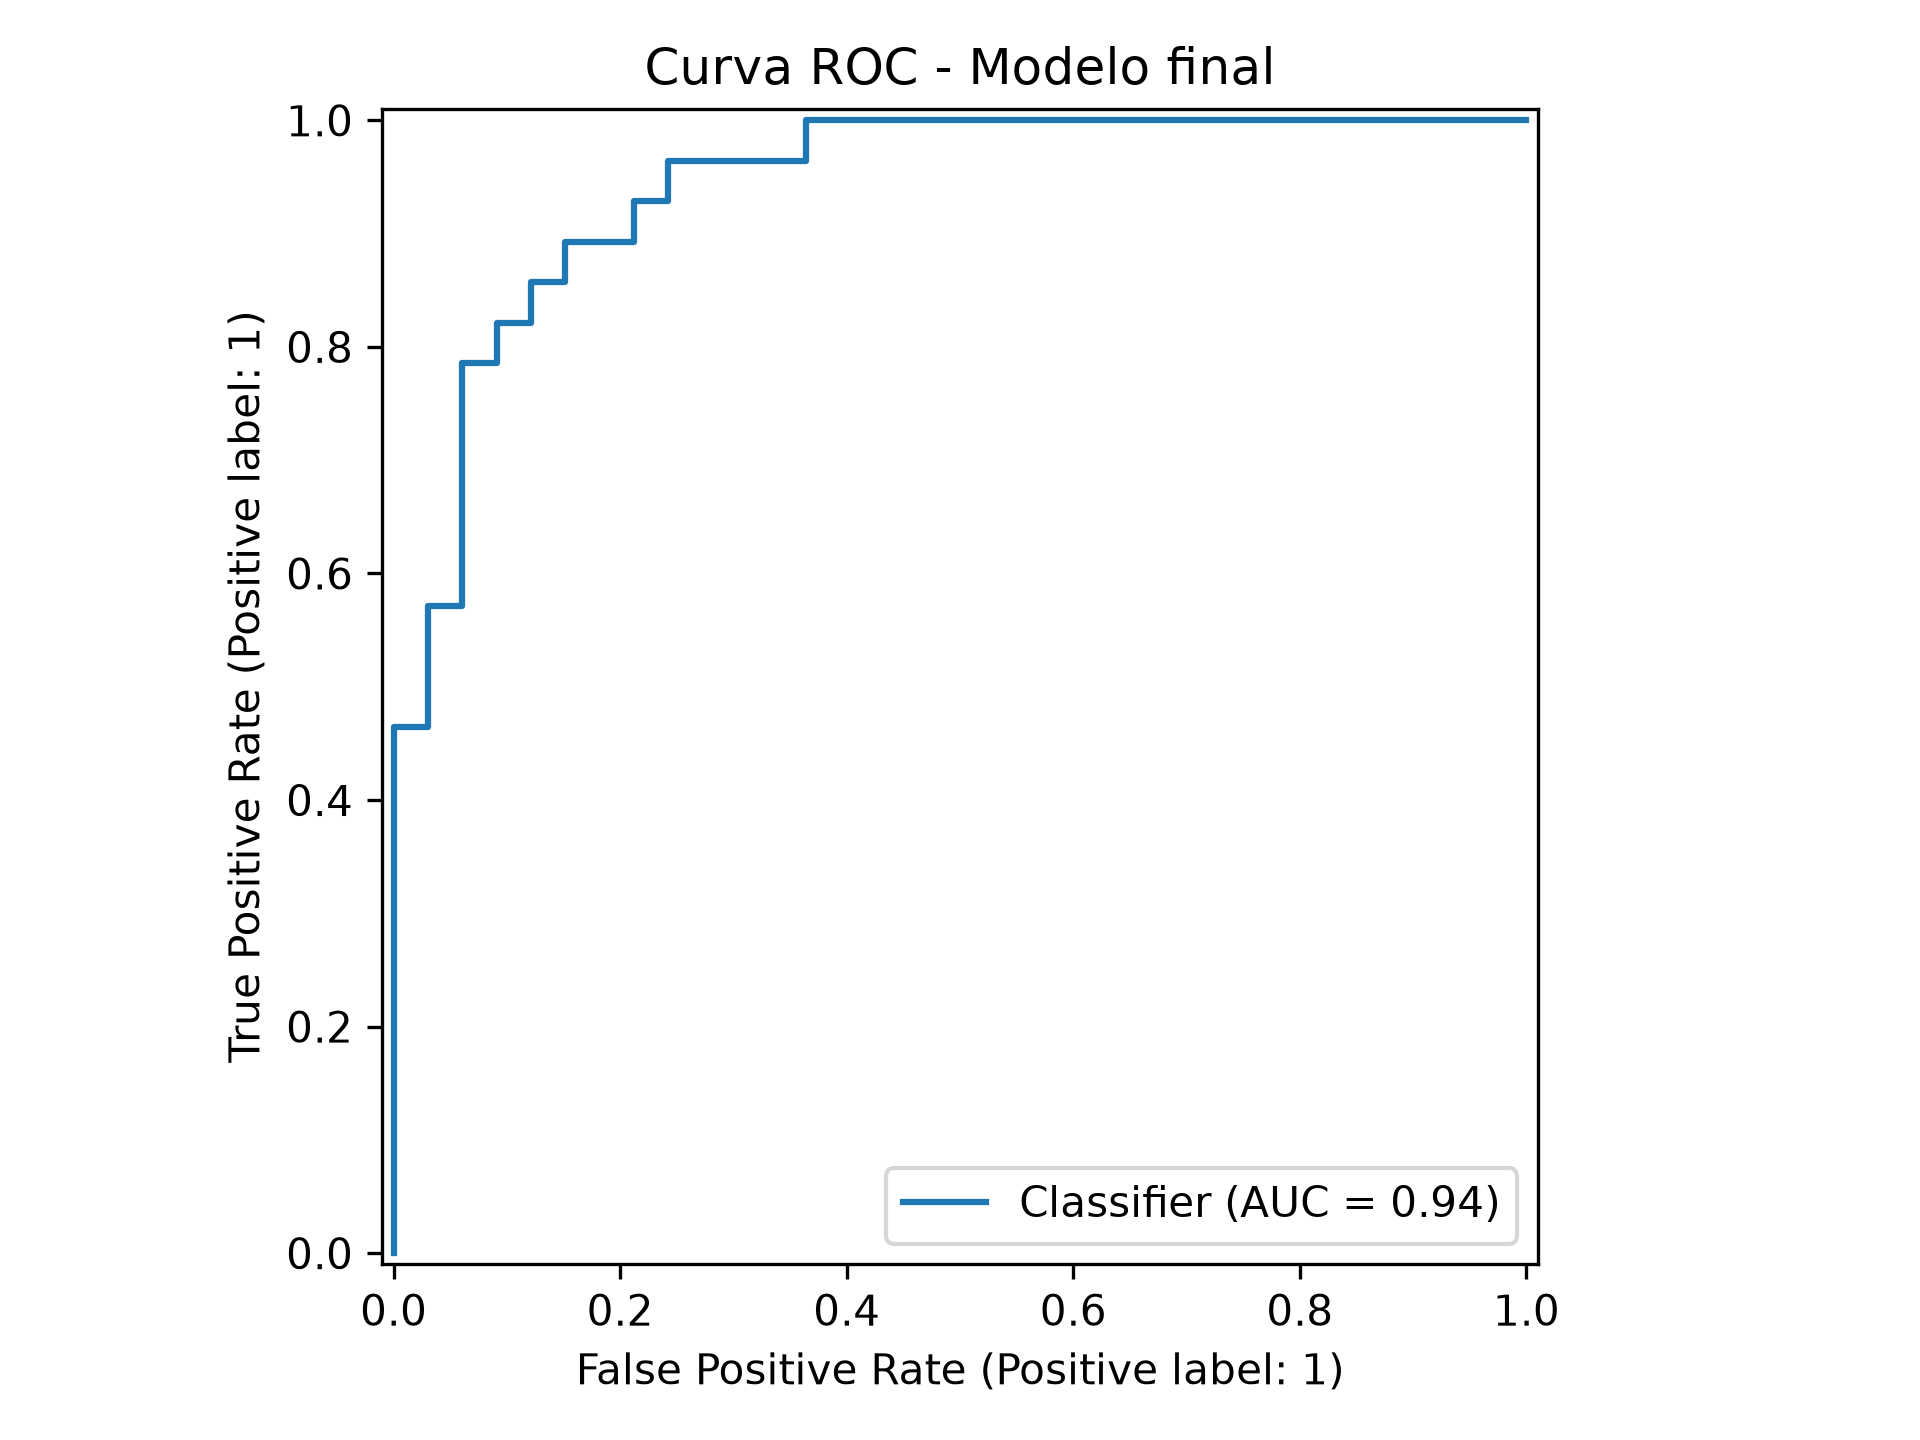
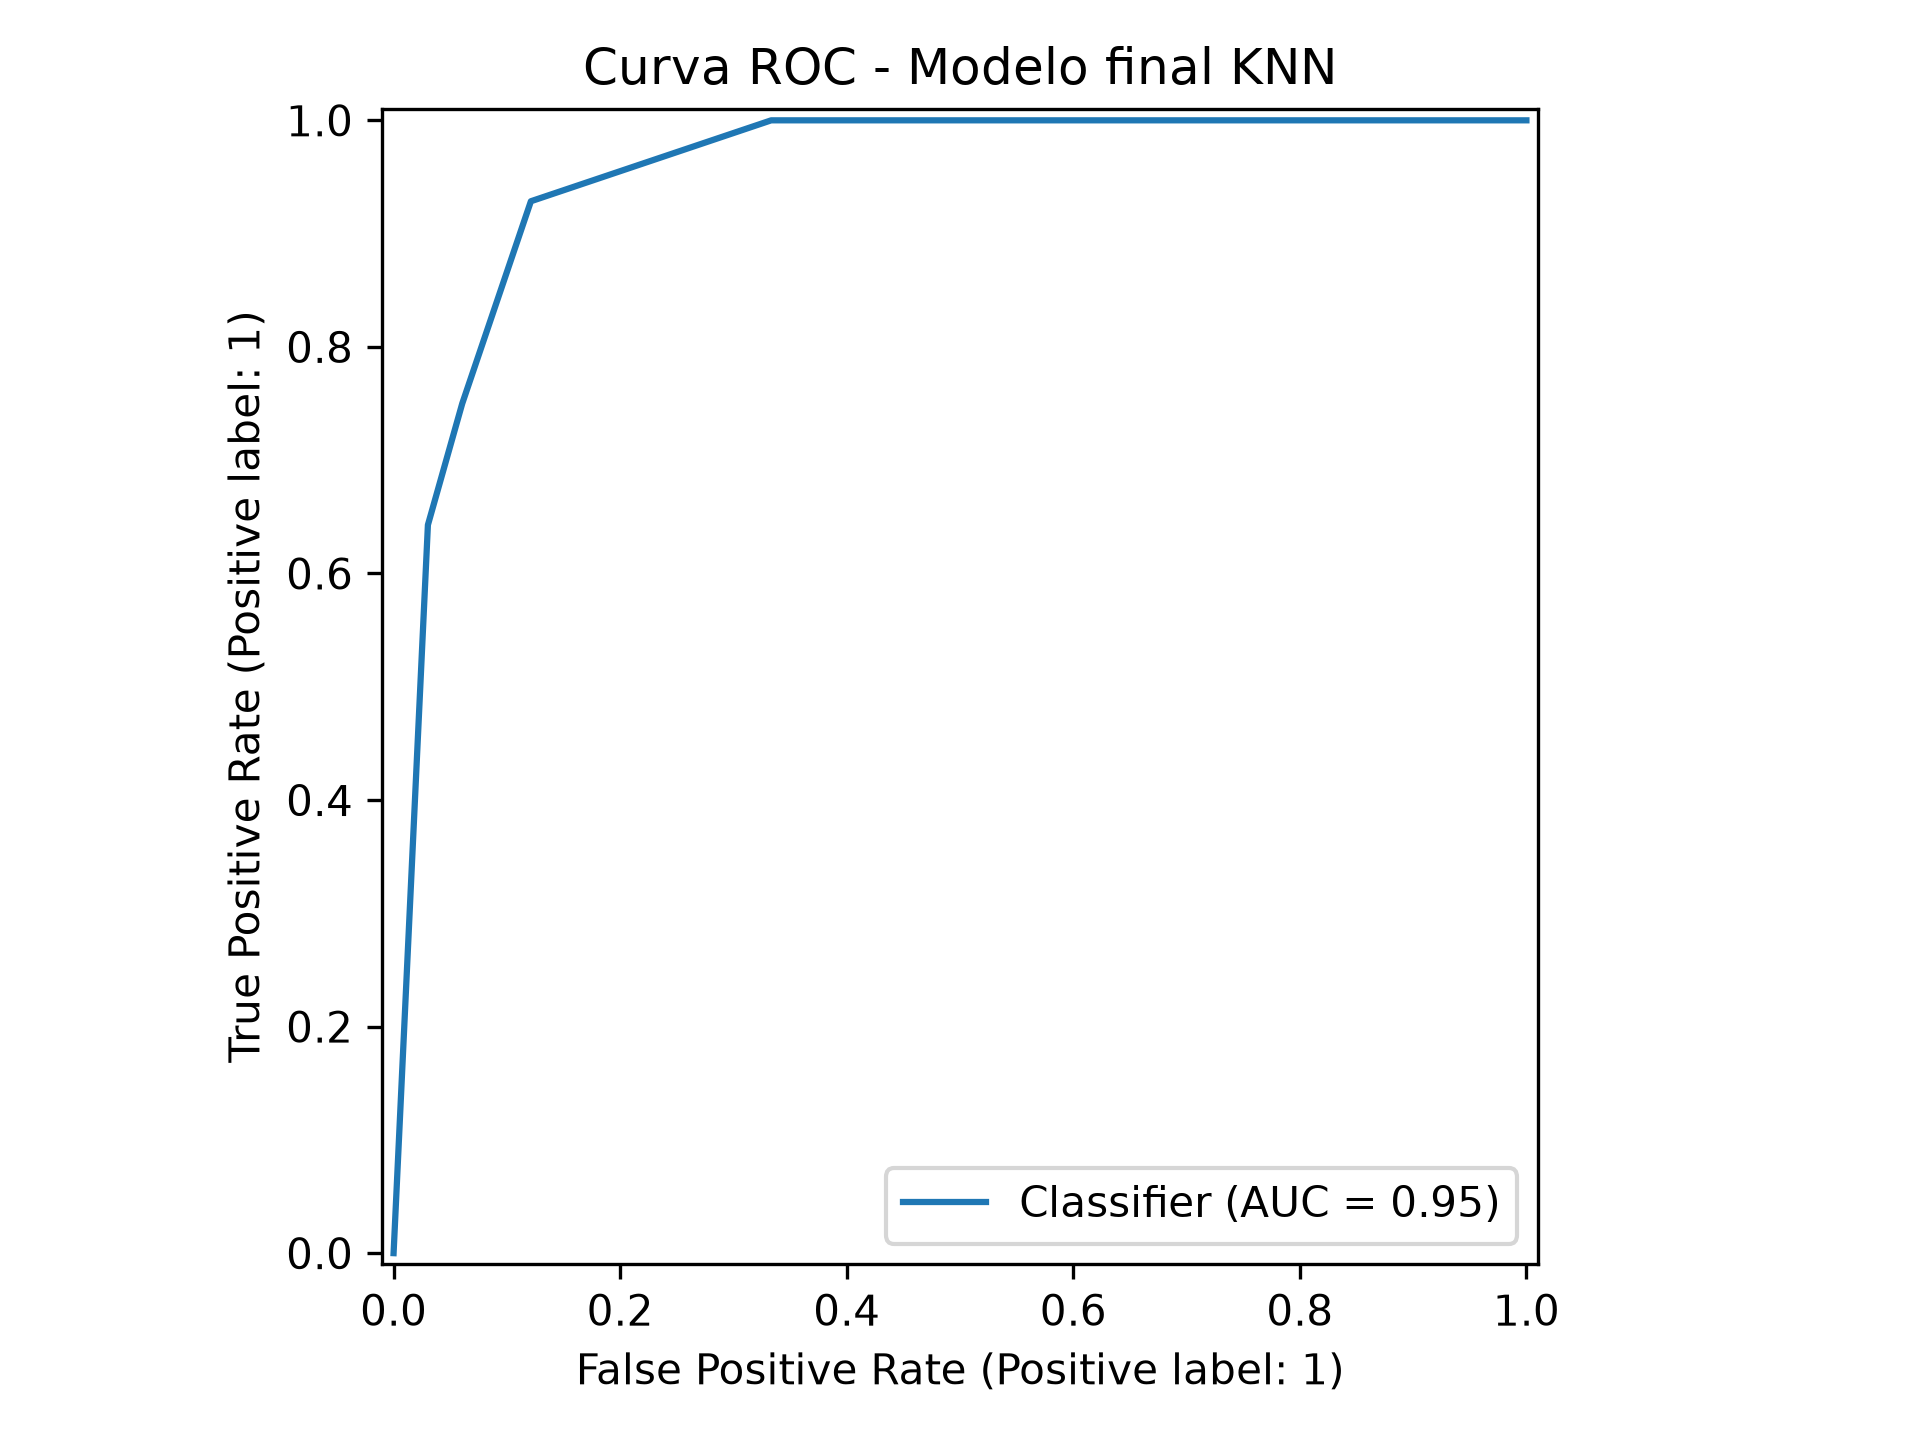
Set KNN as final predictive model and keep Random Forest for interpretability

diff --git a/src/train.py b/src/train.py
@@ -271,15 +271,26 @@ def main():
         n_jobs=-1
     )
 
+    # Entrenar búsqueda de hiperparámetros para Random Forest
     grid_rf.fit(X_train, y_train)
 
-    final_model = grid_rf.best_estimator_
+    # Guardamos Random Forest optimizado como modelo auxiliar de interpretabilidad,
+    # no como modelo final predictivo.
+    rf_interpretability_model = grid_rf.best_estimator_
+
+    # =========================
+    # Modelo final predictivo:
+    # KNN
+    # =========================
+
+    # final_model = grid_rf.best_estimator_
+    final_model = trained_models["KNN"]
 
     y_pred_final = final_model.predict(X_test)
     y_proba_final = final_model.predict_proba(X_test)[:, 1]
 
     final_result = evaluate_classification(
-        "Random Forest optimizado",
+        "KNN",
         y_test,
         y_pred_final,
         y_proba_final
@@ -290,10 +301,16 @@ def main():
         index=False
     )
 
-    # Guardar modelo final
+    # Guardar modelo final predictivo: KNN
     joblib.dump(
         final_model,
         results_dir / "modelo_final_heart_risk.pkl"
+    )
+
+    # Guardar modelo auxiliar de interpretabilidad: Random Forest optimizado
+    joblib.dump(
+        rf_interpretability_model,
+        results_dir / "modelo_interpretabilidad_random_forest.pkl"
     )
 
     # Guardar matriz de confusión
@@ -301,7 +318,7 @@ def main():
         y_test,
         y_pred_final,
         output_path=figures_dir / "matriz_confusion_modelo_final.png",
-        title="Matriz de confusión - Modelo final"
+        title="Matriz de confusión - Modelo final KNN"
     )
 
     # Guardar curva ROC
@@ -309,15 +326,15 @@ def main():
         y_test,
         y_proba_final,
         output_path=figures_dir / "curva_roc_modelo_final.png",
-        title="Curva ROC - Modelo final"
+        title="Curva ROC - Modelo final KNN"
     )
 
     # =========================
     # 7. Importancia de variables
     # =========================
 
-    preprocessor_fitted = final_model.named_steps["preprocessor"]
-    rf_model = final_model.named_steps["model"]
+    preprocessor_fitted = rf_interpretability_model.named_steps["preprocessor"]
+    rf_model = rf_interpretability_model.named_steps["model"]
 
     feature_names = preprocessor_fitted.get_feature_names_out()
     importances = rf_model.feature_importances_
@@ -396,10 +413,10 @@ def main():
     print("\nResultados de validación cruzada:")
     print(df_cv_results)
 
-    print("\nMejores parámetros Random Forest:")
+    print("\nMejores parámetros Random Forest auxiliar:")
     print(grid_rf.best_params_)
 
-    print("\nResultado modelo final:")
+    print("\nResultado modelo final predictivo KNN:")
     print(final_result)
 
     print("\nArchivos guardados en results/.")